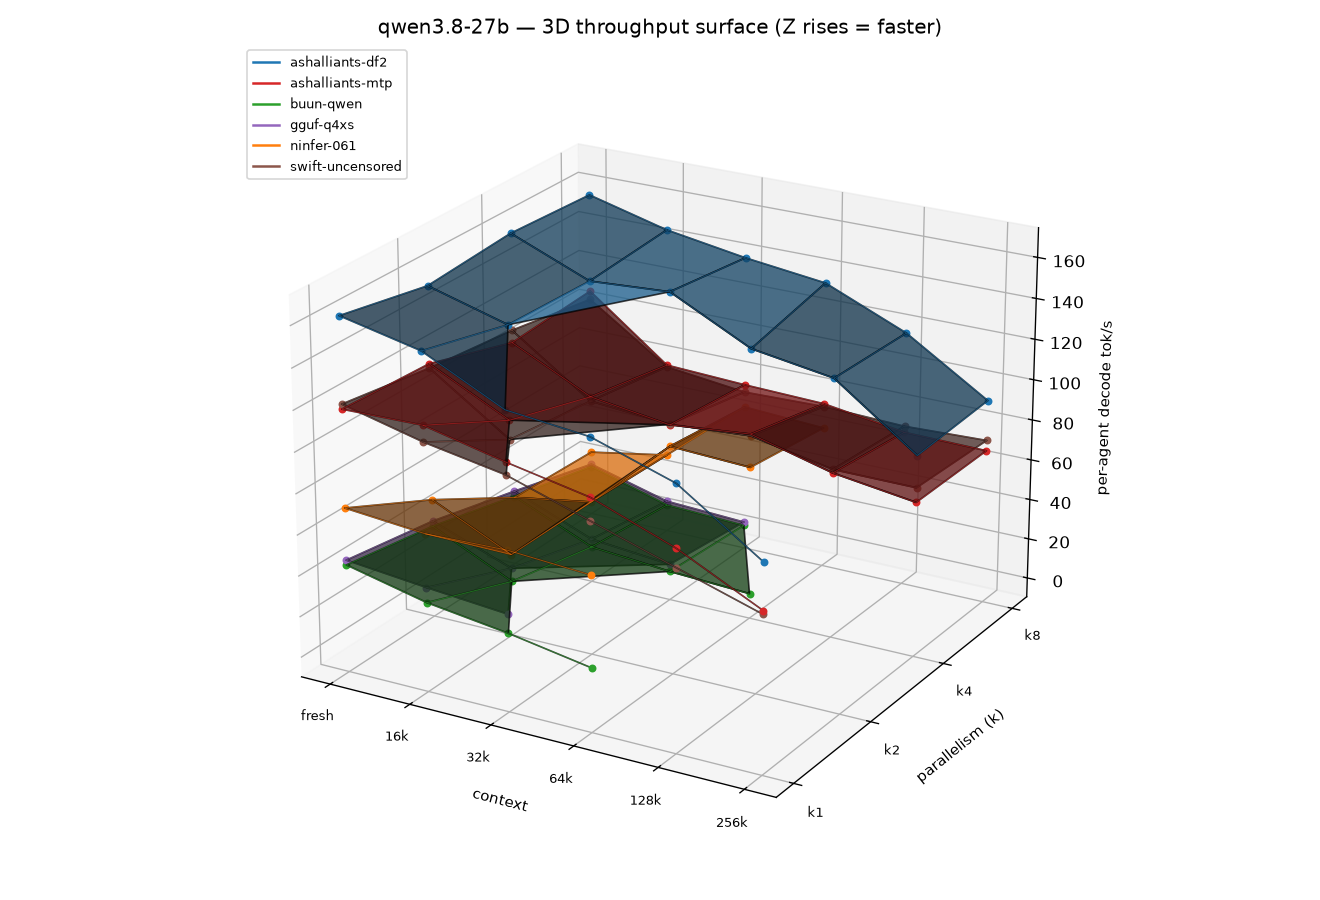
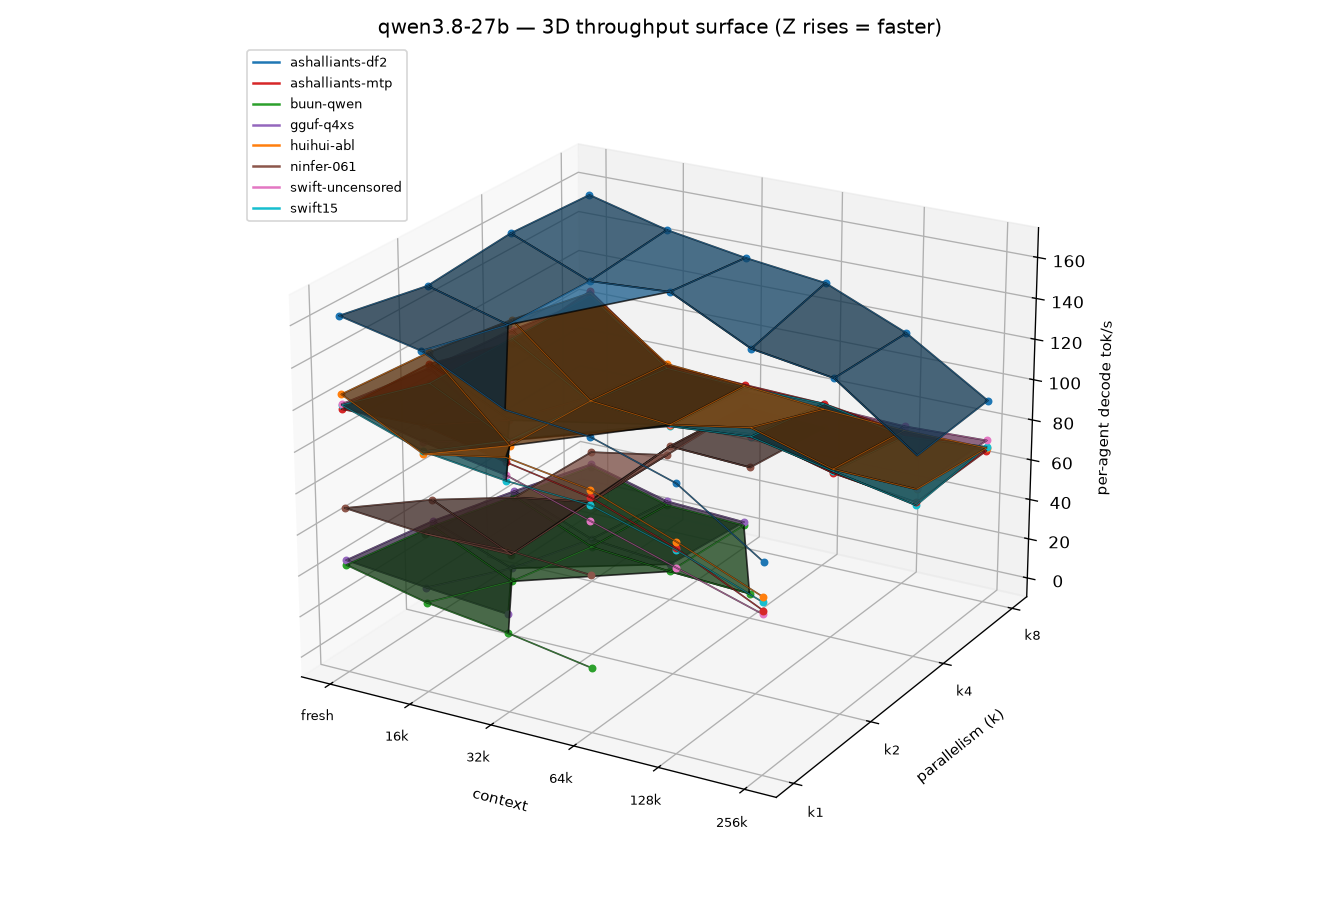
feat(bench): swift15 + huihui-abl variant cells, GGUF KV sizing caveat
swift15 20/20 and huihui-abl 20/20 cells measured on ashalliants
dflash2 lane (fresh 162.7/256k-C8 91.9 control). Remaining six
variants logged as failures with diagnosed causes:
- coder390: publisher tokenizer drift (missing p{M} classes,
  missing added_tokens_decoder) — converter now overrides
  tokenizer.json + tokenizer_config.json with stock qwen3.8
  resources (persisted under q27-bench/stock-tokenizer/)
- obliterated: ENOSPC mid-download (multi-quant repo 97G)
- GGUF arms: KV-cache OOM at ctx 262144 with q8_0 KV — needs
  host-KV offload or reduced ctx per lane (pre-existing)
Driver hardening: 120s GPU drain (engines.py), huihui stage skips
when cells complete (orphan .conversion.json + disk guard traps).

diff --git a/benchmarks/engines-2026-10/engines.py b/benchmarks/engines-2026-10/engines.py
@@ -296,8 +296,10 @@ def clear_gpu():
     # Drain check scoped to the pinned 3090 (-i 1): other GPUs host the
     # user's desktop/games (e.g. GPU0 game at 2+ GiB) and must not fail
     # the assertion. Query returns "Unable to determine..." on missing
-    # GPUs, so fall back to per-GPU index.
-    for _ in range(60):
+    # GPUs, so fall back to per-GPU index. 120s: a freshly-SIGKILLed
+    # 23G model holder can take over a minute to release VRAM
+    # (thinkingcap OOM lesson, 2026-10-10).
+    for _ in range(120):
         out = subprocess.run(["nvidia-smi", "--query-compute-apps=used_memory",
                               "--format=csv,noheader", "-i", "1"],
                              capture_output=True, text=True).stdout

diff --git a/benchmarks/INFERENCE-ENGINES.md b/benchmarks/INFERENCE-ENGINES.md
@@ -4,7 +4,7 @@ _Generated 2026-10-10 · harness: `benchmarks/engines-2026-10/` · metric: **per
 
 ## Summary
 
-Sweep screened 10 engine configurations across two model families on one RTX 3090 (TB4 eGPU): screening (fresh + 16k, C1–C8) then a long ladder (32k–256k, C1/C4/C8) for survivors. Metric is per-agent decode tok/s: what one agent observes while N agents stream concurrently on the same engine. Cells that overflowed the 15 GiB host or deadlocked the engine are ledgered, not averaged in. Peak VRAM per cell is reported beside each table.
+Sweep screened 12 engine configurations across two model families on one RTX 3090 (TB4 eGPU): screening (fresh + 16k, C1–C8) then a long ladder (32k–256k, C1/C4/C8) for survivors. Metric is per-agent decode tok/s: what one agent observes while N agents stream concurrently on the same engine. Cells that overflowed the 15 GiB host or deadlocked the engine are ledgered, not averaged in. Peak VRAM per cell is reported beside each table.
 
 
 Per-engine sections below pair each engine's configuration with its result table: per-agent decode tok/s (rows = context, cols = C1–C8) and peak VRAM MiB per cell. `—` = not measured or overflow (see ledger).
@@ -125,6 +125,20 @@ Z = per-agent decode tok/s (up = faster), X = context, Y = parallelism k. One su
 | 16k | 41.4 | 23.9 | 12.1 | 5.8 | 26414 |
 | 32k | 37.9 | — | 8.4 | 3.9 | 24360 |
 
+### `huihui-abl`
+
+- **Artifact:** —
+- **Flags:** —
+
+| context | C1 | C2 | C4 | C8 | peak VRAM (MiB) |
+|---|---|---|---|---|---|
+| fresh | 125.5 | 122.0 | 115.0 | 105.9 | 23214 |
+| 16k | 105.6 | 84.8 | 82.4 | 77.3 | 23480 |
+| 32k | 112.7 | — | 78.9 | 74.4 | 23480 |
+| 64k | 106.3 | — | 86.0 | 70.8 | 23480 |
+| 128k | 91.2 | — | 74.1 | 68.5 | 23480 |
+| 256k | 74.6 | — | 73.1 | 68.2 | 23480 |
+
 ### `ninfer-061`
 
 - **Artifact:** `/var/lib/ninfer/qwen3_8_27b.ninfer` (ninfer 0.6.1)
@@ -152,6 +166,20 @@ Z = per-agent decode tok/s (up = faster), X = context, Y = parallelism k. One su
 | 64k | 91.7 | — | 81.9 | 72.1 | 25639 |
 | 128k | 79.0 | — | 74.0 | 70.6 | 26260 |
 | 256k | 66.5 | — | 73.8 | 72.0 | 25483 |
+
+### `swift15`
+
+- **Artifact:** —
+- **Flags:** —
+
+| context | C1 | C2 | C4 | C8 | peak VRAM (MiB) |
+|---|---|---|---|---|---|
+| fresh | 120.4 | 106.8 | 105.6 | 104.2 | 23214 |
+| 16k | 106.9 | 87.3 | 81.9 | 75.0 | 23224 |
+| 32k | 101.7 | — | 78.2 | 73.4 | 23224 |
+| 64k | 99.2 | — | 81.5 | 73.5 | 23224 |
+| 128k | 87.2 | — | 73.2 | 65.4 | 23224 |
+| 256k | 72.1 | — | 65.2 | 68.9 | 23224 |
 
 ## Lane comparability
 
@@ -188,7 +216,7 @@ _None outstanding._
 ## Winner
 
 - **bonsai2-27b**: peak `ninfer-all-b2` 267.5 tok/s per-agent; at high parallelism×deep ctx — C8 × 32k: `ninfer-all-b2` 210.9 tok/s vs `q27-t3-solo` 71.0.
-- **qwen3.8-27b**: peak `ashalliants-df2` 162.7 tok/s per-agent; at high parallelism×deep ctx — C8 × 256k: `ashalliants-df2` 91.9 tok/s vs `ashalliants-mtp` 66.9; swift-uncensored (mtp lane) C8 × 256k: 72.0 tok/s, +7.7% vs `ashalliants-mtp` 66.9.
+- **qwen3.8-27b**: peak `ashalliants-df2` 162.7 tok/s per-agent; at high parallelism×deep ctx — C8 × 256k: `ashalliants-df2` 91.9 tok/s vs `swift15` 68.9; swift-uncensored (mtp lane) C8 × 256k: 72.0 tok/s, +7.7% vs `ashalliants-mtp` 66.9.
 
 qwen3.8-27b variants on the ashalliants engine (shared mtp lane) — per-agent decode tok/s (Z = tok/s up = faster, X = context, Y = parallelism k):
 
